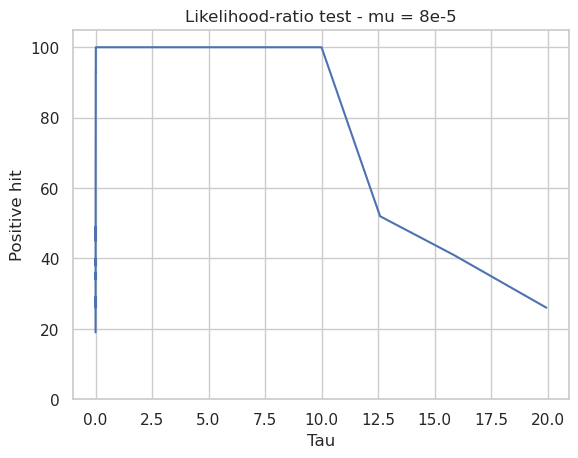
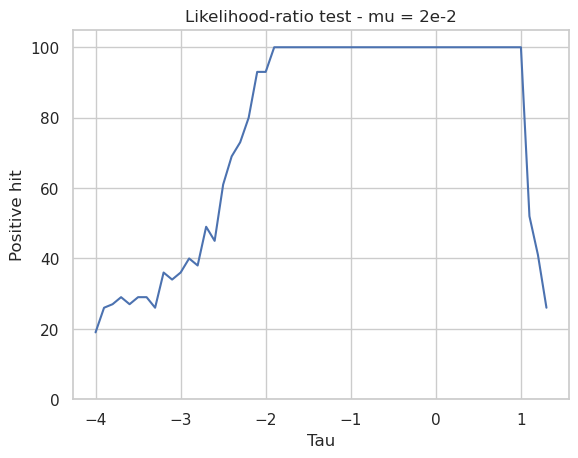
modificiation scipt migale

diff --git a/sei/sei.py b/sei/sei.py
@@ -447,7 +447,7 @@ def main():
         spectrums = sorted([ele for ele in os.listdir(path_data) if ele.startswith("SFS") \
                             and not ele.endswith("inferred.fs")])
 
-        sfs = []
+        sfs, label, color, style, transparency = [], [], [], [], []
         for spectr in spectrums:
             with open("{}{}".format(path_data, spectr), "r") as filin:
                 lines = filin.readlines()
@@ -456,22 +456,17 @@ def main():
                 lines = filin.readlines()
                 sfs.append([float(ele) for ele in lines[1].strip().split(" ")[1: -1]])
 
-            # Plot
-            # Theoretical SFS for any constant population
-            sfs_theorique = [0] * (20 - 1)
-            for i in range(len(sfs_theorique)):
-                sfs_theorique[i] = 1 / (i+1)
-            sfs.append(sfs_theorique)
-
-            plot.plot_sfs(
-                sfs=sfs,
-                label=["Observed", "Inferred", "Théorique"],
-                color=["tab:blue", "tab:orange", "tab:red"],
-                title="Unfold SFS for various scenarios",
-                name="Test-sfs"
-            )
-            break
-        #sys.exit()
+        plot.plot_sfs(
+            sfs=sfs,
+            label=['O1', 'I1', 'O2', 'I2', 'O3', 'I3', 'O4', 'I4', 'O5', 'I5', 'O6', 'I6'],
+            color=['tab:blue', 'tab:blue', 'tab:red', 'tab:red', 'tab:orange', 'tab:orange',
+                   'tab:green', 'tab:green', 'tab:purple', 'tab:purple', 'tab:gray', 'tab:gray'],
+            style=['dashed', 'dotted', 'dashed', 'dotted', 'dashed', 'dotted', 'dashed',
+                   'dotted', 'dashed', 'dotted', 'dashed', 'dotted'],
+            transparency=[1.0, 0.75, 1.0, 0.75, 1.0, 0.75, 1.0, 0.75, 1.0, 0.75, 1.0, 0.75],
+            title="Unfold SFS for various scenarios",
+            name="Test-sfs"
+        )
 
         # Generate plot puissance
         dico = {
@@ -483,6 +478,7 @@ def main():
 
         for fichier in [ele for ele in os.listdir(path_data) if ele.startswith("opt")]:
             res = pd.read_json(path_or_buf="{}{}".format(path_data, fichier), typ='frame')
+            res['Tau'] = np.log10(res['Tau'])
             data = data.append(res, ignore_index=True)
 
         plot.plot_lrt(data)

diff --git a/sei/graphics/plot.py b/sei/graphics/plot.py
@@ -24,7 +24,8 @@ def normalization(data):
 # Plot Site Frequency Spectrum                                       #
 ######################################################################
 
-def plot_sfs(sfs, label, color, title, path_figure="./Figures/", name="sfs"):
+def plot_sfs(sfs, label, color, title, style, transparency, axis=False,
+             path_figure="./Figures/", name="sfs"):
     """
     Graphic representation of Site Frequency Spectrum (SFS), save to the folder ./Figures.
 
@@ -44,7 +45,8 @@ def plot_sfs(sfs, label, color, title, path_figure="./Figures/", name="sfs"):
     # Plot
     for i, spectrum in enumerate(sfs):
         normalized_spectrum = normalization(spectrum)  # normalization of each sfs
-        plt.plot(normalized_spectrum, color=color[i], label=label[i])
+        plt.plot(normalized_spectrum, color=color[i], linestyle=style[i], label=label[i],
+                 alpha=transparency[i])
 
     # Caption
     plt.legend(loc="upper right", fontsize="large")
@@ -54,11 +56,12 @@ def plot_sfs(sfs, label, color, title, path_figure="./Figures/", name="sfs"):
     plt.ylabel("Percent of SNPs", fontsize="large")
 
     # X axis values
-    x_ax, x_values = [], []
-    for i in range(len(sfs[0])):
-        x_ax.append(i)
-        x_values.append("{}/{}".format(i+1, len(sfs[0])+1))
-    plt.xticks(x_ax, x_values)
+    if axis:
+        x_ax, x_values = [], []
+        for i in range(len(sfs[0])):
+            x_ax.append(i)
+            x_values.append("{}/{}".format(i+1, len(sfs[0])+1))
+        plt.xticks(x_ax, x_values)
 
     # Title + save plot to the folder ./Figures
     plt.title(title, fontsize="xx-large")
@@ -203,7 +206,7 @@ def plot_lrt(data, path="./Figures/"):
     ax.set(ylim=(0, max(data["Positive hit"]) + 5))
 
     # Title + save plot to folder ./Figures
-    plt.title("Likelihood-ratio test - mu = 8e-5")
+    plt.title("Likelihood-ratio test - mu = 2e-2")
     plt.savefig("{}lrt".format(path), bbox_inches="tight")
     plt.clf()
 

diff --git a/sei/sei_migale.py b/sei/sei_migale.py
@@ -190,7 +190,7 @@ def likelihood_ratio_test(tau, kappa, msprime_model, dadi_model, control_model, 
           - Model0: log-likelihood for the model with less parameters
           - Model1: nbest log-likelihood for the model with more parameters
     """
-    mu, sample = 2e-2, 20  # 8e-2
+    mu, sample = 8e-2, 20
     ll_list, ll_ratio, model_list = {"Model0": [], "Model1": []}, [], {"LL": [], "SFS": []}
 
     # Grid point for the extrapolation
@@ -282,8 +282,8 @@ def inference(msprime_model, dadi_model, control_model, optimization, scale, sav
 
     lrt, ll_list = likelihood_ratio_test(
         tau, kappa, msprime_model, dadi_model, control_model, optimization, save,
-        nb_simu=100, dof=dof
-    )  # 1000 simulations
+        nb_simu=1000, dof=dof
+    )
     row = {
         "Tau": tau, "Kappa": kappa, "Positive hit": Counter(lrt)[1],
         "Model0 ll": ll_list["Model0"], "Model1 ll": ll_list["Model1"]
@@ -315,12 +315,12 @@ if __name__ == "__main__":
         dadi_params_optimisation(sample[args.number-1])
     elif args.analyse == 'lrt':
         if args.param == 'tau':
-            scale = [np.arange(-4.5, 1.5, 0.07)[int(args.value[0])-1]]
+            scale = [np.arange(-4, 4.1, 0.1)[int(args.value[0])-1]]
         elif args.param == 'kappa':
             scale = [np.arange(-2, 3.1, 0.1)[int(args.value[0])-1]]
         else:
             scale = [
-                np.arange(-4.5, 1.5, 0.07)[int(args.value[0])-1],
+                np.arange(-4, 4.1, 0.1)[int(args.value[0])-1],
                 np.arange(-2, 3.1, 0.1)[int(args.value[1])-1]
             ]
 
